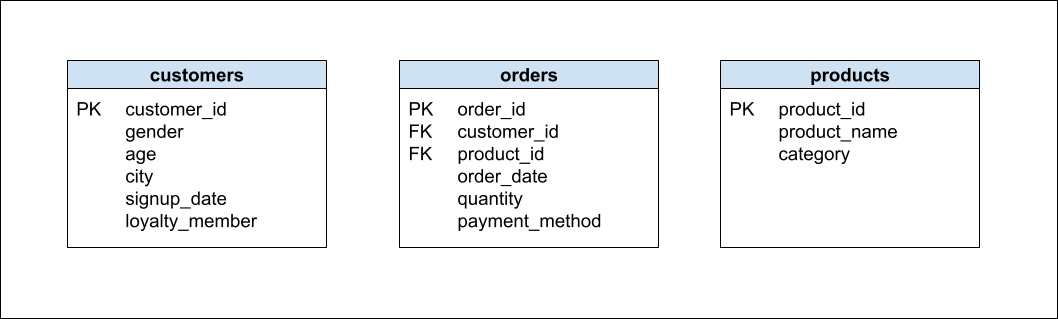
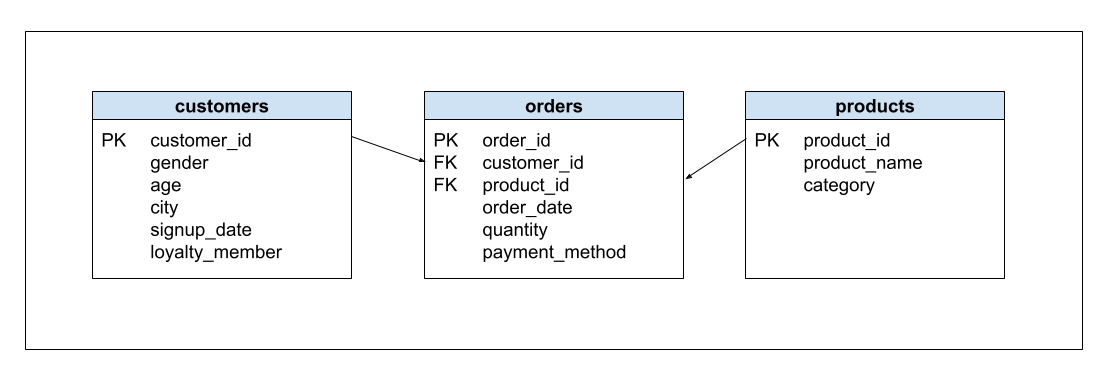
update diagram

diff --git a/markdown/Software-Engineering/Database-Design.md b/markdown/Software-Engineering/Database-Design.md
@@ -119,13 +119,12 @@ Instead we will create an **entity relationship diagram** to help us plan our da
 
 6. We'll start by identifying our core entities or nouns for our system. What three nouns represent our data best and what are their attributes? Add these to your diagram.
 
-For example, if I wanted to create a ERD for a `Order` with the attributes `Order_Id`, `Customer_Id`, `OrderDate`, and `Price` and a `Customer` with the attributes `FirstName`, `LastName`, `Customer_Id`. 
+For example, we can take a look at the ERD from the previous assignment. 
+
+<img src="/assets/store-schema.png">
 
 
-<img src="/assets/database-design-figure-1.png">
-
-
-For your own clarity, this is an example of an ERD in **Crow's Foot** notation. See [this article](https://medium.com/@callista.m.azizah/crows-foot-erd-for-beginners-a-tutorial-1effc8a326c6) for more information.
+For your own clarity, this is an example of an ERD in **Crow's Foot** notation. See [this article](https://medium.com/@callista.m.azizah/crows-foot-erd-for-beginners-a-tutorial-1effc8a326c6) for more information. Don't worry too much about getting the ends of the arrows correct; just focus on the columns and identifying the correct keys.
 
 7. Make sure you highlight each table's primary key. A primary key needs to be a unique value! Typically the primary key is an id number or another unique value. Also identify the foreign keys as they appear in other tables. Lastly, make sure your lines have cardinality relationships labeled! 
 
@@ -135,7 +134,10 @@ For your own clarity, this is an example of an ERD in **Crow's Foot** notation. 
 
 Now that you designed the system, we can create the appropriate documentation. 
 
-9. Create a new document for your data dictionary. [Here](https://public.tableau.com/app/sample-data/GBBO_Data_Dictionary.pdf) is a sample from a preivous lab. Start by writing a small description of your project overall. Then add your diagram you created in the previous steps. Then for each table in your database, create the following table:
+9. Create a new document for your data dictionary. [Here](https://public.tableau.com/app/sample-data/GBBO_Data_Dictionary.pdf) and [here](https://github.com/gormes-EPIC/store_relational_database/blob/main/data_dictionary.pdf) are some simple examples. 
+    - Start by writing a small description of your project overall. 
+    - Then add your diagram you created in the previous steps. 
+    - Then for each table in your database, create the following table:
 
 | Column Name | Data Type | Constraints | Description|
 | ----------- | ----------- | --- | --- | 

diff --git a/markdown/Software-Engineering/Database-Implementation-Lab.md b/markdown/Software-Engineering/Database-Implementation-Lab.md
@@ -15,7 +15,7 @@
 | schema ||
 | primary key ||
 | data flow diagram | | 
-|
+
 ## Your Task
 
 Over multiple labs, you will create a simple full-stack software project that has a multitable SQLite database with a Python API in front of it that connects to a simple frontend HTML site. You will then containerize these components so others can set up this project on their own machines. You will also create a `github.io` site with your documentation for your project.
@@ -33,7 +33,7 @@ Some ideas are:
 0. Decide on a project idea with either existing data from a site like [Kaggle.com](https://www.kaggle.com/datasets) or create a plan for collecting data directly from your Pi. Whatever you choose must have multiple interconnected tables, not just one.
     - When searching Kaggle, use the keywords "multi-table", "relational", or "multiple CSV" in the Datasets section to find datasets with multiple interconnected tables. 
 
-1. Once you decide what you want your project to be, create a set of **use cases** to define your project. These are typically in the form "As a [USER], I need to [ACTION]".
+1. Once you decide what you want your project to be, create a set of **use cases** to define your project. These are typically in the form "As a [USER], I need to [ACTION]". See the [Database Design](#Software-Engineering/Database-Design) assignment for more information about use cases.
  
 2. Define your **business rules** for your database. Remember there are the followng types of rules: 
     - Structural Rules: Define how data elements interrelate (e.g., "One artist may create many songs")
@@ -42,10 +42,9 @@ Some ideas are:
         - Relationship Constraints: Ensure links between tables are valid (e.g., an invoice cannot exist without a linked customer).
     - Derivation Rules: Define how new facts are calculated from existing data (e.g., "Total Order Amount = Sum of detailed items").
 
-
 *As you create your rules, think about [common falsehoods](https://github.com/kdeldycke/awesome-falsehood).*
 
-3. Create a **entity relationship diagram** to define your database **schema**. Start with your entities(nouns) and define their properties(attributes). Make sure each table has a **primary key**.
+3. Create a **entity relationship diagram** to define your database **schema**. Start with your entities(nouns) and define their properties(attributes). Make sure each table has a **primary key** and **foreign keys** are properly labeled.
 
 4. Create a setup script, either a SQL or Python script, to set up the database. 
 
